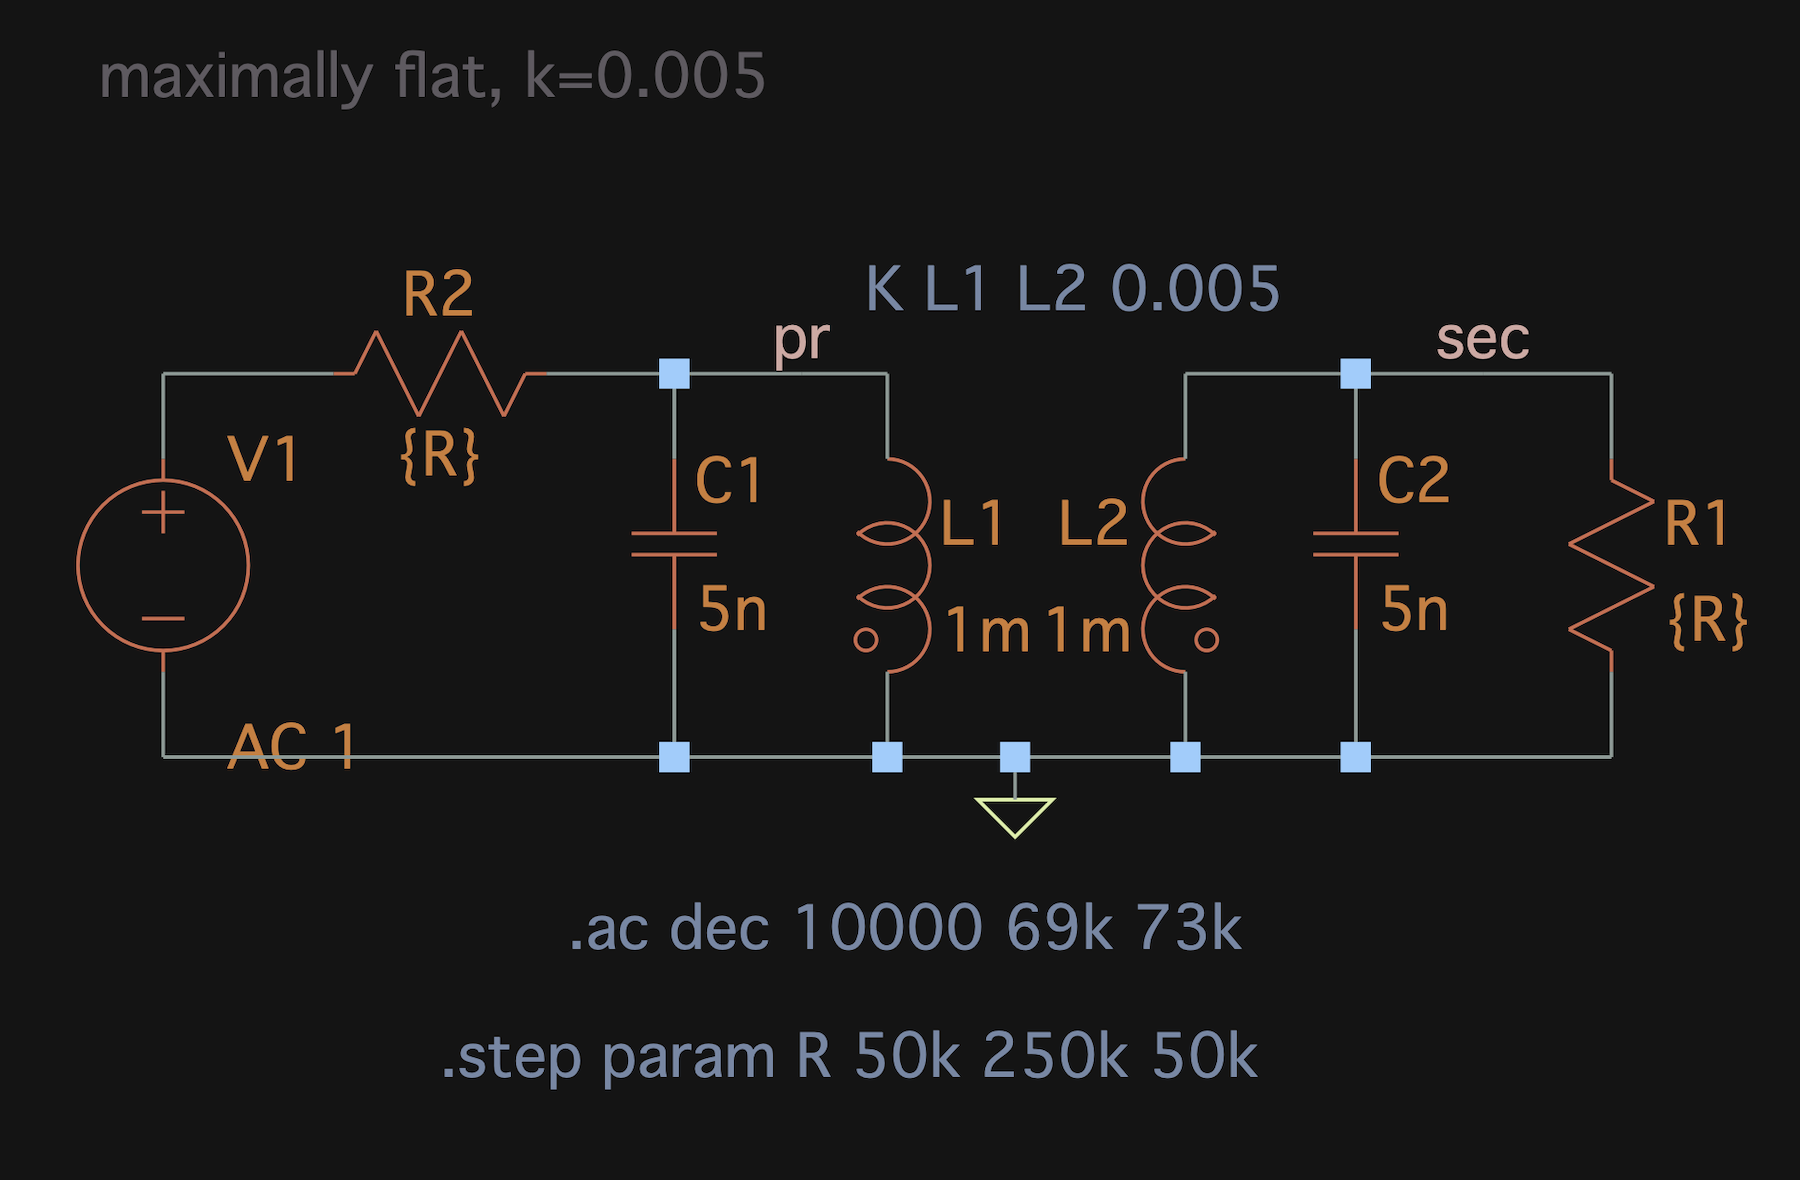
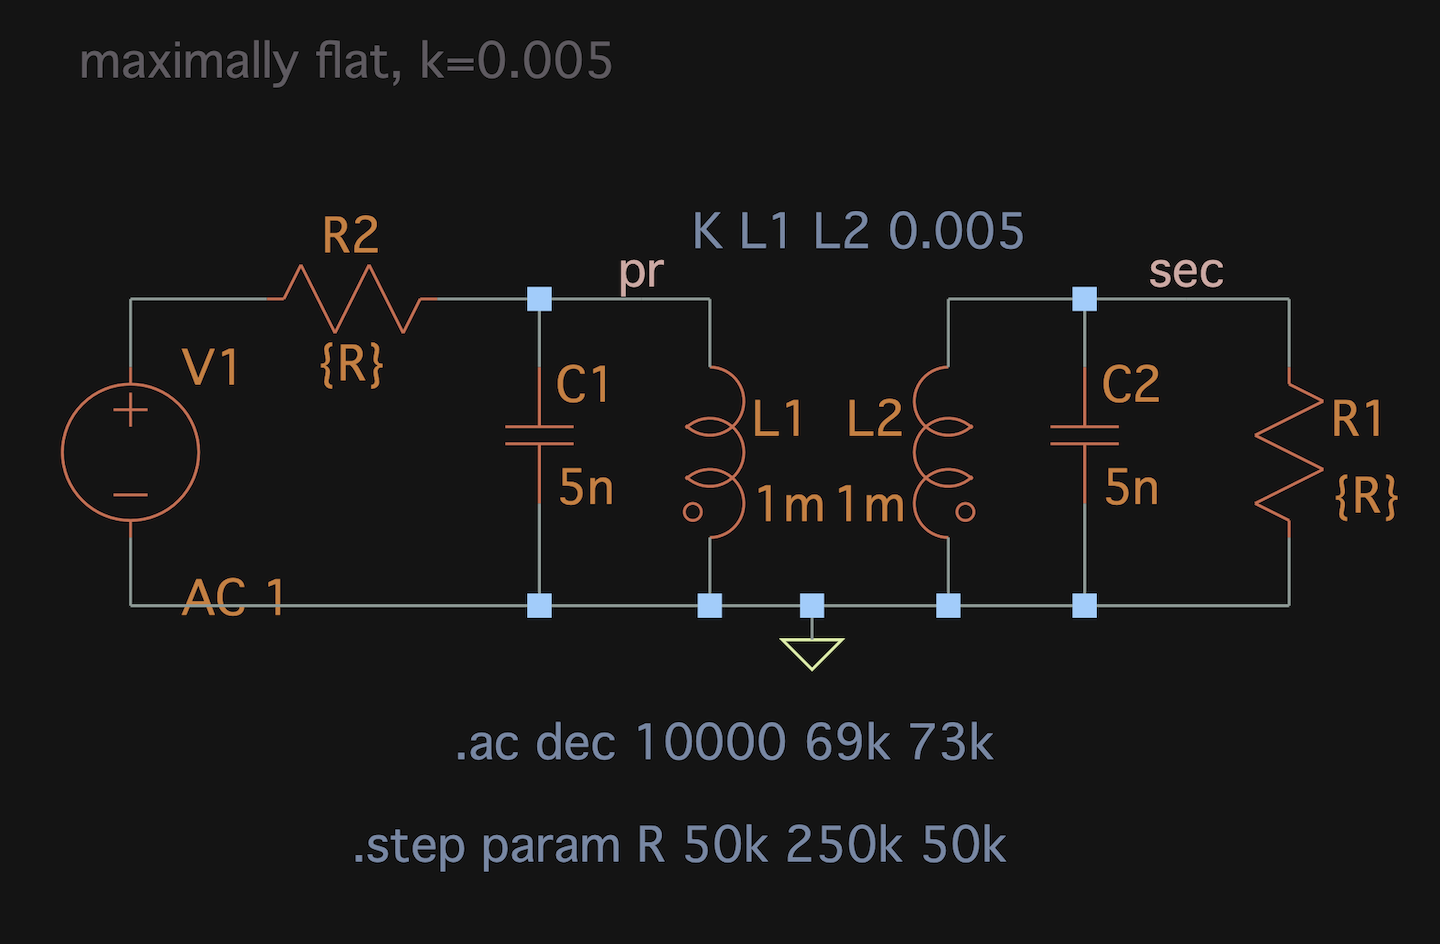
Reduced size of screenshots

diff --git a/README.md b/README.md
@@ -297,7 +297,7 @@ Copy of the **LTSpice** application plist file at the time of first run
 - [```/Users/<USER>/Library/Preferences/com.analog.LTspice.App.plist```]  
 **LTSpice* application plist file
 
-&nbsp;
+<div style="page-break-after: always;"></div>
 
 # Theme file format
 
@@ -368,27 +368,29 @@ digits    ::= "0" | "1" | ...
 
 &nbsp;
 
+<div style="page-break-after: always;"></div>
+
 # Theme reference screenshots
 
 |[back to content table](#content)|
 
-## default
+## 1. default
 
 ![default theme](theme_screenshots/default.png)
 
-## darcula
+## 2. darcula
 
 ![darcult theme](theme_screenshots/darcula.png)
 
-## sakabug
+## 3. sakabug
 
 ![sakabug theme](theme_screenshots/sakabug.png)
 
-## twilght-after-dark
+## 4. twilght-after-dark
 
 ![twilght-after-dark theme](theme_screenshots/twilght-after-dark.png)
 
-## softdark
+## 5. softdark
 
 ![softdark theme](theme_screenshots/softdark.png)
 
